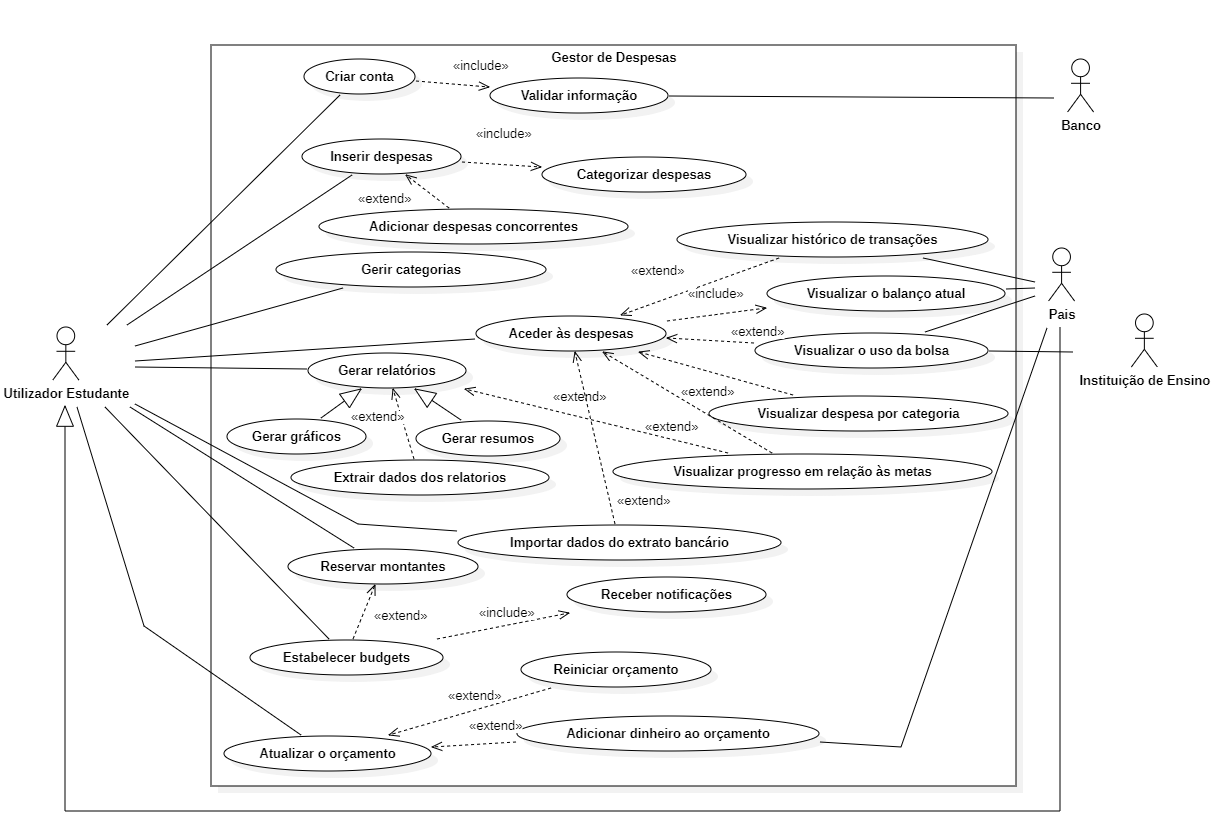
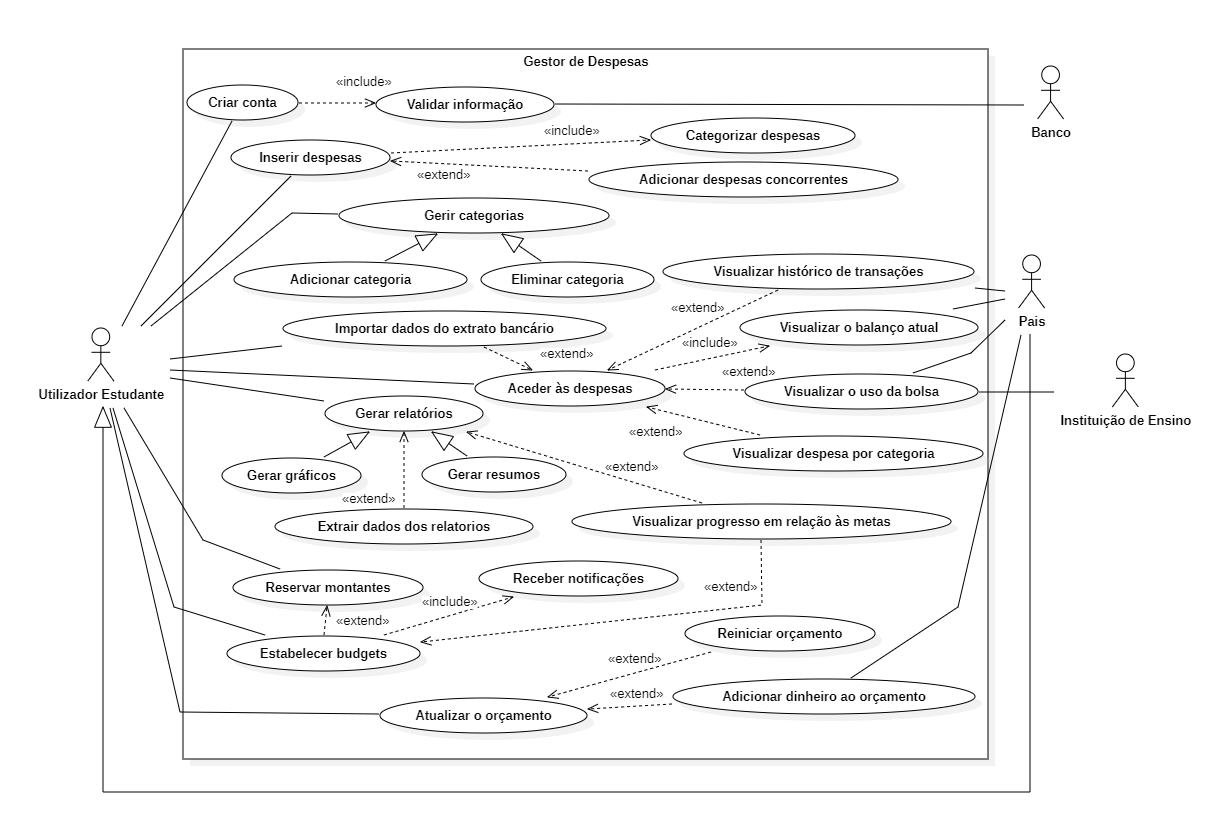
atualozações stories, n está tudo ainda

Changed region(s): [[0.0, 0.0303, 0.9984, 0.9685], [0.7176, 0.0908, 0.9048, 0.1816]]

diff --git a/README.md b/README.md
@@ -154,11 +154,7 @@ It is a collection of criteria that must be completed for a User Story to be con
 
 ##### User Story 1
 
-As a new user,
-I want to be able to create a new account,
-So that I can start using it and mange my finances effectively.
-
-(Como um novo utilizador, desejo poder registar-me(S) para puder usar o software(M)).
+As a new user, I want to be able to create a new account, So that I can start using it and mange my finances effectively.
 
 Story Points - 2S
 Priorities  - Must have (M)
@@ -179,11 +175,8 @@ Priorities  - Must have (M)
 
 As a student, I want to be able to track my daily expenses,so that I can maintain an accurate record of my personal finances.
 
-(Como estudante, quero ser capaz de controlar as minhas despesas diárias (M), para saber mais sobre os meus gastos diários(S)).
-
-
-Story Points - 3M
-Priorities  - Should Have (S)
+Story Points -
+Priorities  - 
 
 ###### Acceptance Criteria
 
@@ -198,21 +191,39 @@ Priorities  - Should Have (S)
 
 ##### User Story 3
 
-As a student, I want to analyze my spending patterns, So that I can better understand where my money is going and make informed financial decisions.
+As a user, I want to manage categories so that I can organize my expenses according to different types.
 
-(Como estudante, quero analisar os meus gastos (X), para entender para onde vai o meu dinheiro e tomar melhores decisões (C) ).
+Story Points -
+Priorities  - 
 
-Story Points - 3X
-Priorities  - Could Have (C)
+###### Acceptance Criteria
+
+- There should be a section in the application dedicated to category management.
+- The user should be able to create and delete categories.
+- The created categories should be applicable to the expenses entered in User Story 2.
+- It should be possible to assign a category to each expense during entry.
+
+***
+
+##### User Story 4
+
+As a student, I want to access expenses so that I can view all my recorded expenses.
+
+Story Points -
+Priorities  - 
 
 ###### Acceptance Criteria
 
 
-- After logging in, I should have a menu that allows me to perform various operations, such as seeing all expenses together, seeing expenses by category, seeing a brief analysis. In this analysis, I can choose the date range I want (the last month, the last semester, the last week, today, or custom dates).
-- The software should make a summary of my expenses, display a small text that informs me of my expenses (for example, this month you spent another €50 on shopping, to improve try to make a list of what you really need and force yourself to follow it -there).
-- You may also display some graphs or representative images.
+
 ***
-##### User Story 4
+
+##### User Story 5
+
+Story Points -
+Priorities  - 
+
+###### Acceptance Criteria
 
 ***
 
